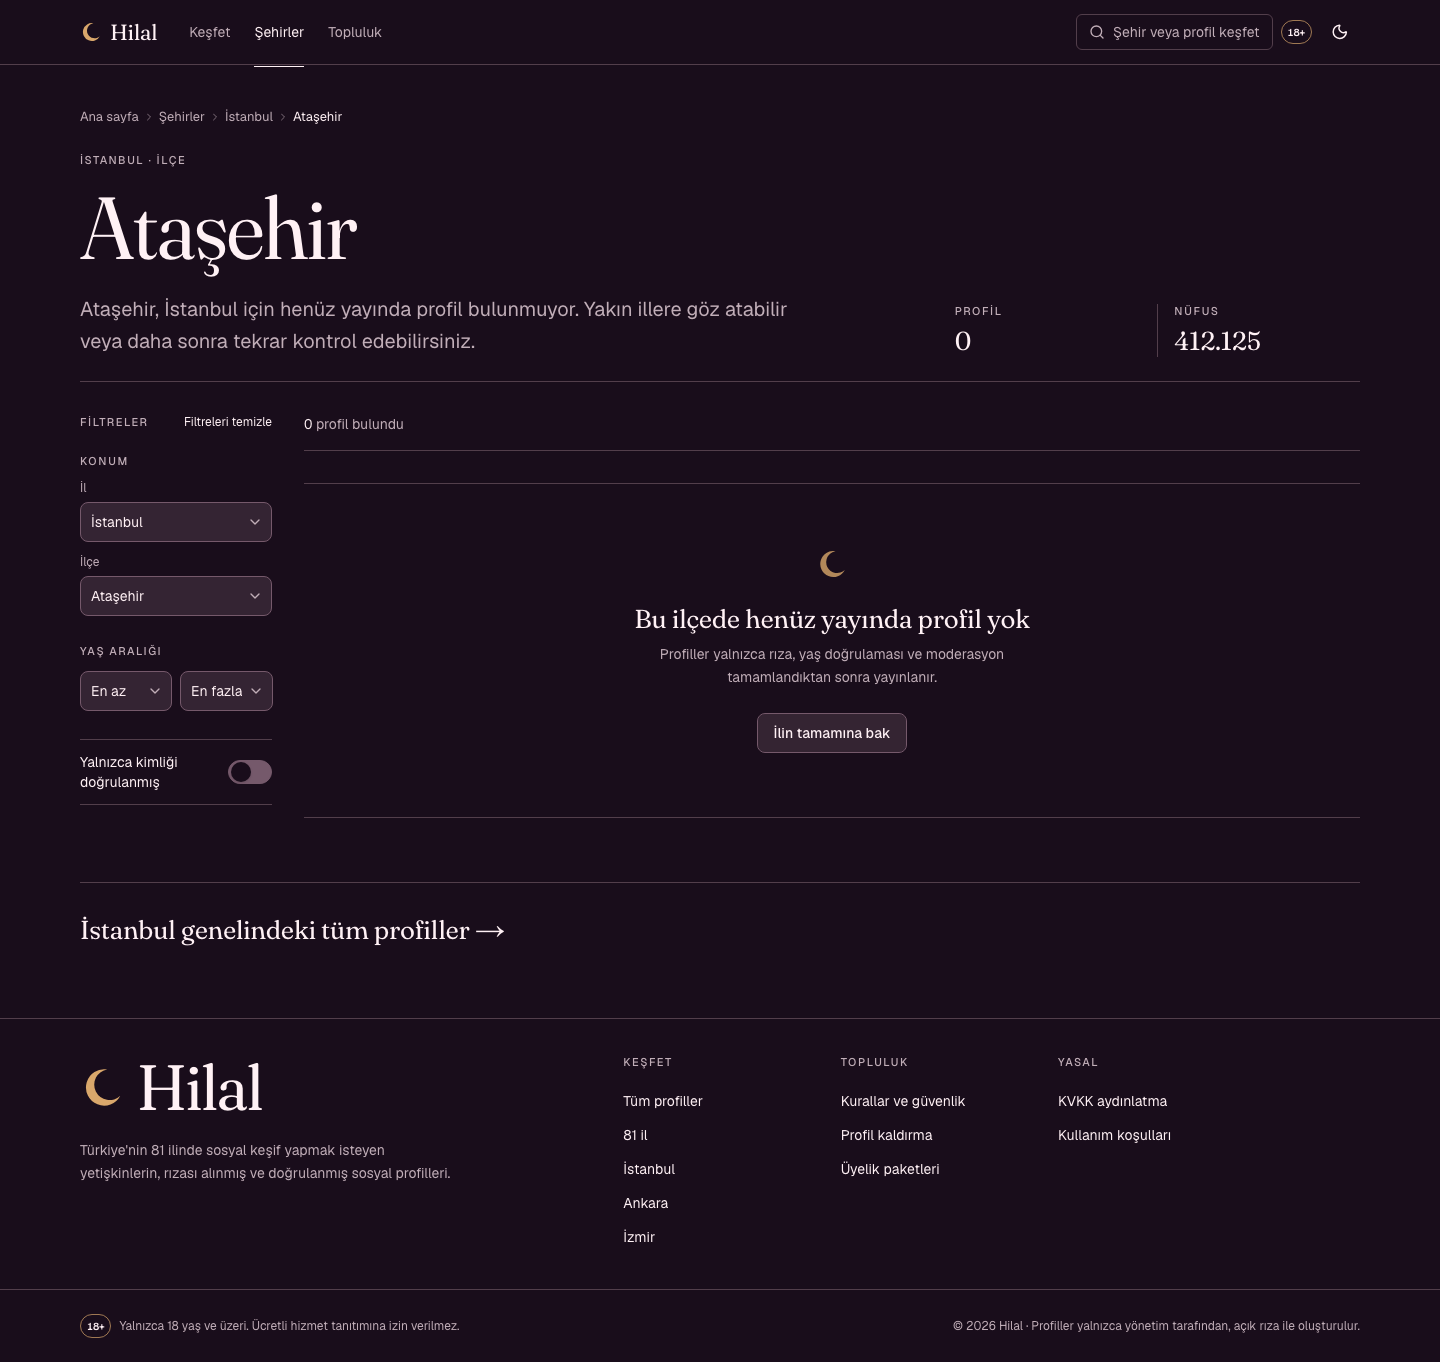
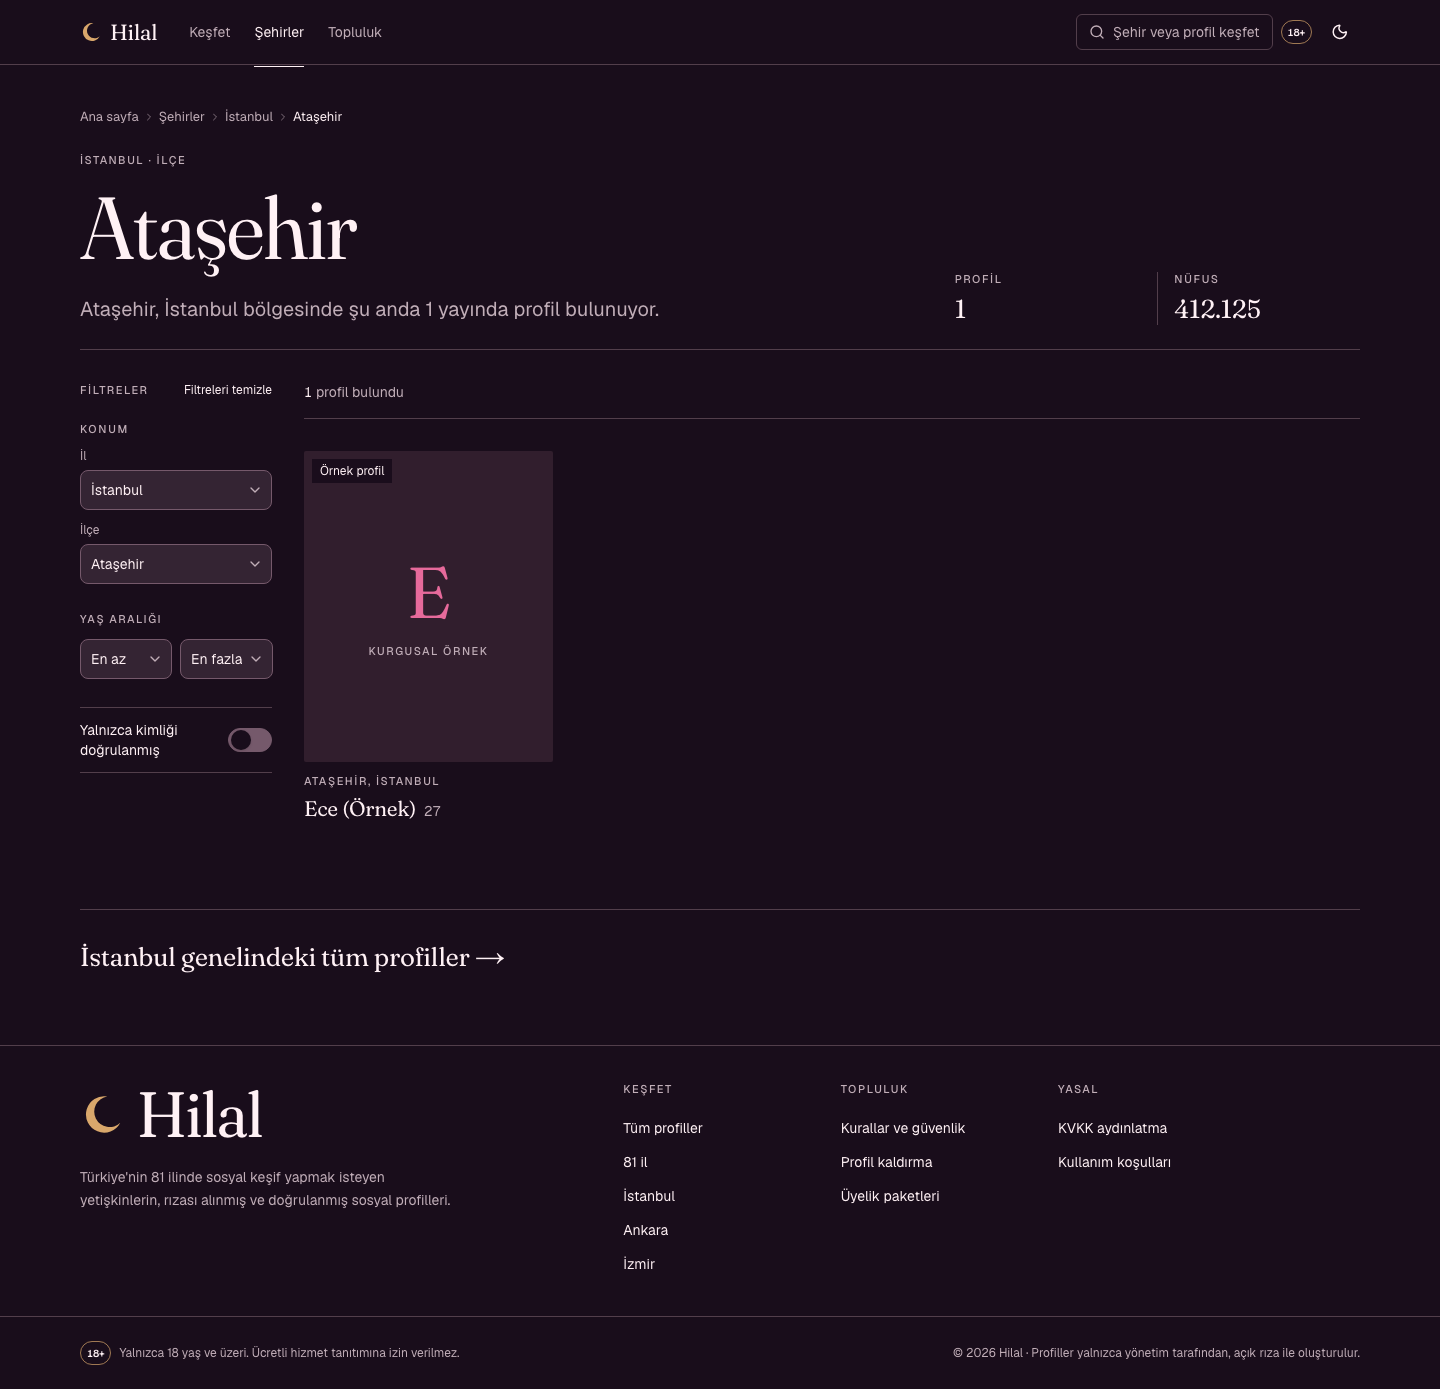
feat: show clearly labeled fictional profiles in discovery

diff --git a/src/app/(site)/profil/[slug]/page.tsx b/src/app/(site)/profil/[slug]/page.tsx
@@ -79,7 +79,7 @@ async function ProfileContent({ params }: Pick<PageProps<"/profil/[slug]">, "par
   const profile = await getPublicProfile((await params).slug);
   if (!profile) notFound();
   const place = profile.district ? `${profile.district.name}, ${profile.province.name}` : profile.province.name;
-  const whatsapp = whatsAppHref(profile.whatsappPhone);
+  const whatsapp = profile.isExample ? null : whatsAppHref(profile.whatsappPhone);
   const media = mediaOf(profile);
   const cover = profile.images[0];
   const imageCount = profile.images.length;
@@ -91,8 +91,8 @@ async function ProfileContent({ params }: Pick<PageProps<"/profil/[slug]">, "par
   return (
     <ProfileMediaProvider items={media} name={profile.nickname}>
       <article className="container-page pt-6 sm:pt-10">
-        <ViewTracker profileId={profile.id} />
-        <JsonLd
+        {!profile.isExample ? <ViewTracker profileId={profile.id} /> : null}
+        {!profile.isExample ? <JsonLd
           data={{
             "@context": "https://schema.org",
             "@type": "ProfilePage",
@@ -100,7 +100,7 @@ async function ProfileContent({ params }: Pick<PageProps<"/profil/[slug]">, "par
             url: `${siteUrl()}/profil/${profile.slug}`,
             mainEntity: { "@type": "Person", alternateName: profile.nickname, description: truncate(profile.bio, 200), homeLocation: { "@type": "Place", name: place } },
           }}
-        />
+        /> : null}
         <Breadcrumbs
           items={[
             { name: profile.province.name, href: `/sehir/${profile.province.slug}` },
@@ -112,7 +112,8 @@ async function ProfileContent({ params }: Pick<PageProps<"/profil/[slug]">, "par
         {/* ——— Hero ——— */}
         <div className="mt-6 grid gap-y-8 sm:mt-8 lg:grid-cols-12 lg:gap-x-12">
           <div className="lg:col-span-7">
-            <MediaStrip items={media} name={profile.nickname} />
+            {media.length ? <MediaStrip items={media} name={profile.nickname} /> : null}
+            {profile.isExample && !cover ? <div className="flex aspect-[4/5] flex-col items-center justify-center gap-5 bg-muted"><span className="font-display text-9xl text-brand" aria-hidden>{profile.nickname.charAt(0)}</span><span className="eyebrow text-muted-foreground">Kurgusal örnek profil</span></div> : null}
             {cover ? (
               <OpenMediaButton index={0} label="Kapak fotoğrafını tam ekran aç" className="group relative hidden aspect-[4/5] w-full overflow-hidden rounded-xs bg-muted md:block">
                 <Image src={cover.url} alt={cover.alt || `${profile.nickname} kapak fotoğrafı`} fill priority sizes="(min-width: 1376px) 760px, (min-width: 1024px) 56vw, 92vw" className="object-cover object-[50%_30%]" />
@@ -135,7 +136,7 @@ async function ProfileContent({ params }: Pick<PageProps<"/profil/[slug]">, "par
                 <span className="font-sans text-display-sm font-light tabular-nums text-muted-foreground">{profile.age}</span>
               </h1>
               <div className="mt-5">
-                {profile.verified ? (
+                {profile.isExample ? (<p className="border border-hairline bg-muted p-4 text-sm">Kurgusal örnek profil. Gerçek bir kişiyi temsil etmez; yaş ve kimlik doğrulaması yapılmamıştır. İletişim kurulamaz.</p>) : profile.verified ? (
                   <VerifiedMark withLabel />
                 ) : (
                   <p className="text-sm text-muted-foreground">Yaş belgeyle doğrulandı · kimlik doğrulaması yapılmadı</p>

diff --git a/src/server/repositories/supabase.ts b/src/server/repositories/supabase.ts
@@ -290,6 +290,7 @@ async function hydratePublic(rows: Row[]): Promise<PublicProfile[]> {
       id: r.id as string,
       slug: r.slug as string,
       nickname: r.nickname as string,
+      isExample: Boolean(r.is_example),
       whatsappPhone: (r.whatsapp_phone as string) ?? null,
       age: r.age as number,
       province: {
@@ -372,7 +373,7 @@ export function createSupabaseRepository(): Repository {
         ids = [...counts].filter(([, n]) => n === filters.ilgi.length).map(([id]) => id);
         if (!ids.length) return { items: [], total: 0 };
       }
-      let q = anon().from("profiles_public").select("*", { count: "exact" });
+      let q = anon().from("discovery_profiles").select("*", { count: "exact" });
       if (filters.il) q = q.eq("city_slug", filters.il);
       if (filters.ilce) q = q.eq("district_slug", filters.ilce);
       if (filters.yasMin !== undefined) q = q.gte("age", filters.yasMin);
@@ -389,7 +390,7 @@ export function createSupabaseRepository(): Repository {
     },
 
     async getPublicProfile(slug) {
-      const rows = check(await anon().from("profiles_public").select("*").eq("slug", slug).limit(1)) as Row[];
+      const rows = check(await anon().from("discovery_profiles").select("*").eq("slug", slug).limit(1)) as Row[];
       const [p] = await hydratePublic(rows);
       return p ?? null;
     },
@@ -397,7 +398,7 @@ export function createSupabaseRepository(): Repository {
     async listFeaturedProfiles(limit) {
       const rows = check(
         await anon()
-          .from("profiles_public")
+          .from("discovery_profiles")
           .select("*")
           .order("sponsored", { ascending: false })
           .order("published_at", { ascending: false })
@@ -418,7 +419,7 @@ export function createSupabaseRepository(): Repository {
       // Aggregate compact location columns in bounded keyset batches, never the full profile table at once.
       let after: string | undefined;
       while (true) {
-        let q = anon().from("profiles_public").select("id, city_plate, district_slug").order("id").limit(500);
+        let q = anon().from("discovery_profiles").select("id, city_plate, district_slug").order("id").limit(500);
         if (after) q = q.gt("id", after);
         const rows = check(await q) as Row[];
         for (const r of rows) {
@@ -432,7 +433,7 @@ export function createSupabaseRepository(): Repository {
     },
 
     async listPublicProfileSlugs() {
-      const rows = check(await anon().from("profiles_public").select("slug, updated_at")) as Row[];
+      const rows = check(await anon().from("discovery_profiles").select("slug, updated_at").eq("is_example", false).eq("noindex", false)) as Row[];
       return rows.map((r) => ({ slug: r.slug as string, updatedAt: r.updated_at as string }));
     },
 

diff --git a/tests/integration/supabase.test.ts b/tests/integration/supabase.test.ts
@@ -55,6 +55,33 @@ describe.skipIf(!enabled)("Supabase repository (entegrasyon)", () => {
     noindex: false,
   };
 
+  it("kurgusal örnek görünürken gerçek taslak ve yayın koşulları gizli kalır", async () => {
+    const repo = getRepository();
+    const profile = await profiles.createProfile(admin, { ...input, nickname: "Kurgu (Örnek)", interestIds: [] });
+    created.push(profile.id);
+    const stored = await service!.from("profiles").select("city_id,district_id").eq("id", profile.id).single();
+    if (stored.error) throw stored.error;
+    const slug = `kurgu-kadin-it-${profile.id}`;
+    const insert = await service!.from("example_profiles").insert({ id: profile.id, slug, nickname: "Kurgu (Örnek)", birth_date: input.birthDate, ...stored.data, bio: "KURGUSAL ÖRNEK — Gerçek bir kişiyi temsil etmez." });
+    if (insert.error) throw insert.error;
+    const example = await repo.getPublicProfile(slug);
+    expect(example?.isExample).toBe(true);
+    expect(example?.verified).toBe(false);
+    expect(example?.sponsored).toBe(false);
+    expect(example?.whatsappPhone).toBeNull();
+    expect(example?.images).toEqual([]);
+    expect(example?.seo.noindex).toBe(true);
+    expect(await repo.getPublicProfile(profile.slug)).toBeNull();
+    const realPublic = await anon!.from("profiles_public").select("id").eq("id", profile.id);
+    expect(realPublic.data).toEqual([]);
+    expect((await anon!.from("example_profiles").select("*")).error).toBeTruthy();
+    await expect(profiles.publishProfile(admin, profile.id)).rejects.toBeInstanceOf(PublishBlockedError);
+    expect((await repo.listPublicProfileSlugs()).some(p => p.slug === slug)).toBe(false);
+    const hide = await service!.from("example_profiles").update({ visible: false }).eq("id", profile.id);
+    if (hide.error) throw hide.error;
+    expect(await repo.getPublicProfile(slug)).toBeNull();
+  });
+
   it("tam yaşam döngüsü: oluştur → engel → koşullar → yayın → kamu görünümü → şikâyet → silme", async () => {
     const repo = getRepository();
     const interests = await repo.listInterests();

diff --git a/tests/e2e/examples.spec.ts b/tests/e2e/examples.spec.ts
@@ -1,0 +1,28 @@
+import { expect, test } from "@playwright/test";
+
+test.skip(!process.env.E2E_SUPABASE, "Requires explicitly published database examples");
+
+test("examples appear in standard discovery and remain clearly fictional", async ({ page, request }) => {
+  const verified = await (await request.get("/api/discovery?dogrulanmis=1")).json();
+  expect(verified.items.filter((p: { isExample?: boolean }) => p.isExample)).toEqual([]);
+  await page.goto("/");
+  await expect(page.locator("article").filter({ hasText: "Örnek profil" })).toHaveCount(8);
+  await page.goto("/kesfet");
+  await expect(page.locator("article").filter({ hasText: "Örnek profil" })).toHaveCount(10);
+  await page.goto("/sehir/istanbul/atasehir");
+  const card = page.getByRole("article").filter({ hasText: "Ece (Örnek)" });
+  await expect(card).toBeVisible();
+  await expect(card).toContainText("Ataşehir, İstanbul");
+  await card.getByRole("link", { name: "Ece (Örnek)" }).click();
+  await expect(page.getByRole("heading", { level: 1 })).toContainText("Ece (Örnek)");
+  await expect(page.getByText("Kurgusal örnek profil. Gerçek bir kişiyi temsil etmez;", { exact: false })).toBeVisible();
+  await expect(page.getByText("Yaş belgeyle doğrulandı", { exact: false })).toHaveCount(0);
+  await expect(page.locator('a[href*="wa.me"]')).toHaveCount(0);
+  await expect(page.locator('meta[name="robots"]')).toHaveAttribute("content", /noindex/);
+  expect((await (await request.get("/sitemap.xml")).text())).not.toContain("kurgu-kadin-");
+  for (const width of [360, 390, 768, 1440]) {
+    await page.setViewportSize({ width, height: 1000 });
+    expect(await page.evaluate(() => document.documentElement.scrollWidth <= innerWidth)).toBe(true);
+  }
+  await page.screenshot({ path: "artifacts/production/example-profile.png", fullPage: true });
+});

diff --git a/src/components/site/profile-card.tsx b/src/components/site/profile-card.tsx
@@ -38,7 +38,13 @@ export function ProfileCard({
             priority={priority}
             className="object-cover object-[50%_30%] transition-transform duration-700 ease-[var(--ease-out-soft)] group-hover:scale-[1.025] motion-reduce:transform-none"
           />
+        ) : profile.isExample ? (
+          <div className="flex h-full flex-col items-center justify-center gap-4 text-muted-foreground">
+            <span className="font-display text-7xl text-brand" aria-hidden>{profile.nickname.charAt(0)}</span>
+            <span className="eyebrow">Kurgusal örnek</span>
+          </div>
         ) : null}
+        {profile.isExample ? <span className="absolute left-2 top-2 bg-background/95 px-2 py-1 text-xs text-foreground">Örnek profil</span> : null}
         {feature && profile.images.length > 1 ? (
           <span className="absolute bottom-2 right-2 rounded-xs bg-background/95 px-1.5 py-0.5 text-[0.6875rem] tabular-nums text-foreground backdrop-blur-sm">
             {profile.images.length} fotoğraf

diff --git a/src/domain/types.ts b/src/domain/types.ts
@@ -305,6 +305,8 @@ export type Admin = {
 
 /** Ziyaretçiye gösterilen, hassas alanlardan arındırılmış profil görünümü. */
 export type PublicProfile = {
+  /** Explicitly fictional public example, never a verified real person. */
+  isExample?: boolean;
   id: string;
   slug: string;
   nickname: string;

diff --git a/PRODUCTION_RELEASE.md b/PRODUCTION_RELEASE.md
@@ -78,3 +78,11 @@ Vercel projesi: hilal (`prj_twEinRQ0zTn6xkIQyevdPXJfMyCI`). Supabase: hilal (`yq
 - `supabase/migrations/20261020000001_immutable_audit_actor.sql`
 - `tests/e2e/database-discovery.spec.ts`
 - `tests/unit/location-directory.test.ts`
+
+## Güncelleme — 10 görünür kurgusal profil
+
+Kullanıcının açık isteğiyle 8 İstanbul, 1 Ankara ve 1 İzmir örneği ana profil listelerine eklendi. `example_profiles` yalnızca seçilmiş kurgusal içeriklerin halka açık kopyalarını tutar; özel taslak tablosu açılmadı. `discovery_profiles` gerçek yayın görünümü ile bu örnekleri birleştirir. Gerçek kişi yayınlama, rıza, yaş ve medya kuralları değişmedi.
+
+Kart ve detaylarda örnek etiketi bulunur; fotoğraf yerine baş harf kullanılır. Örneklerde kimlik/yaş doğrulaması iddiası, sponsor rozeti veya telefon yoktur. Detaylar noindex'tir; sitemap'e ve doğrulanmış kişi filtresine girmez. Gerçek kişi JSON-LD'si ve görüntülenme sayacı örneklerde çalışmaz. Örnek görünürlüğü `example_profiles.visible=false` ile kapatılabilir; kaynak taslak silindiğinde kopya da silinir. Taslağın sonraki düzenlemeleri kendiliğinden halka açılmaz.
+
+Kontroller: typecheck/lint/84 birim testi başarılı; gerçek Supabase entegrasyonu 4 başarılı; yerel Playwright konum/yaş 2 başarılı ve örnek liste/detay kontrolü 1 başarılı. Webpack üretim derlemesi başarılı. İlk örnek E2E denemesinde akışın gizli HTML kopyası seçiciyi çoğalttı; erişilebilir article seçicisiyle düzeltildi. Yeni şema: `20261021000001_public_examples.sql`.
